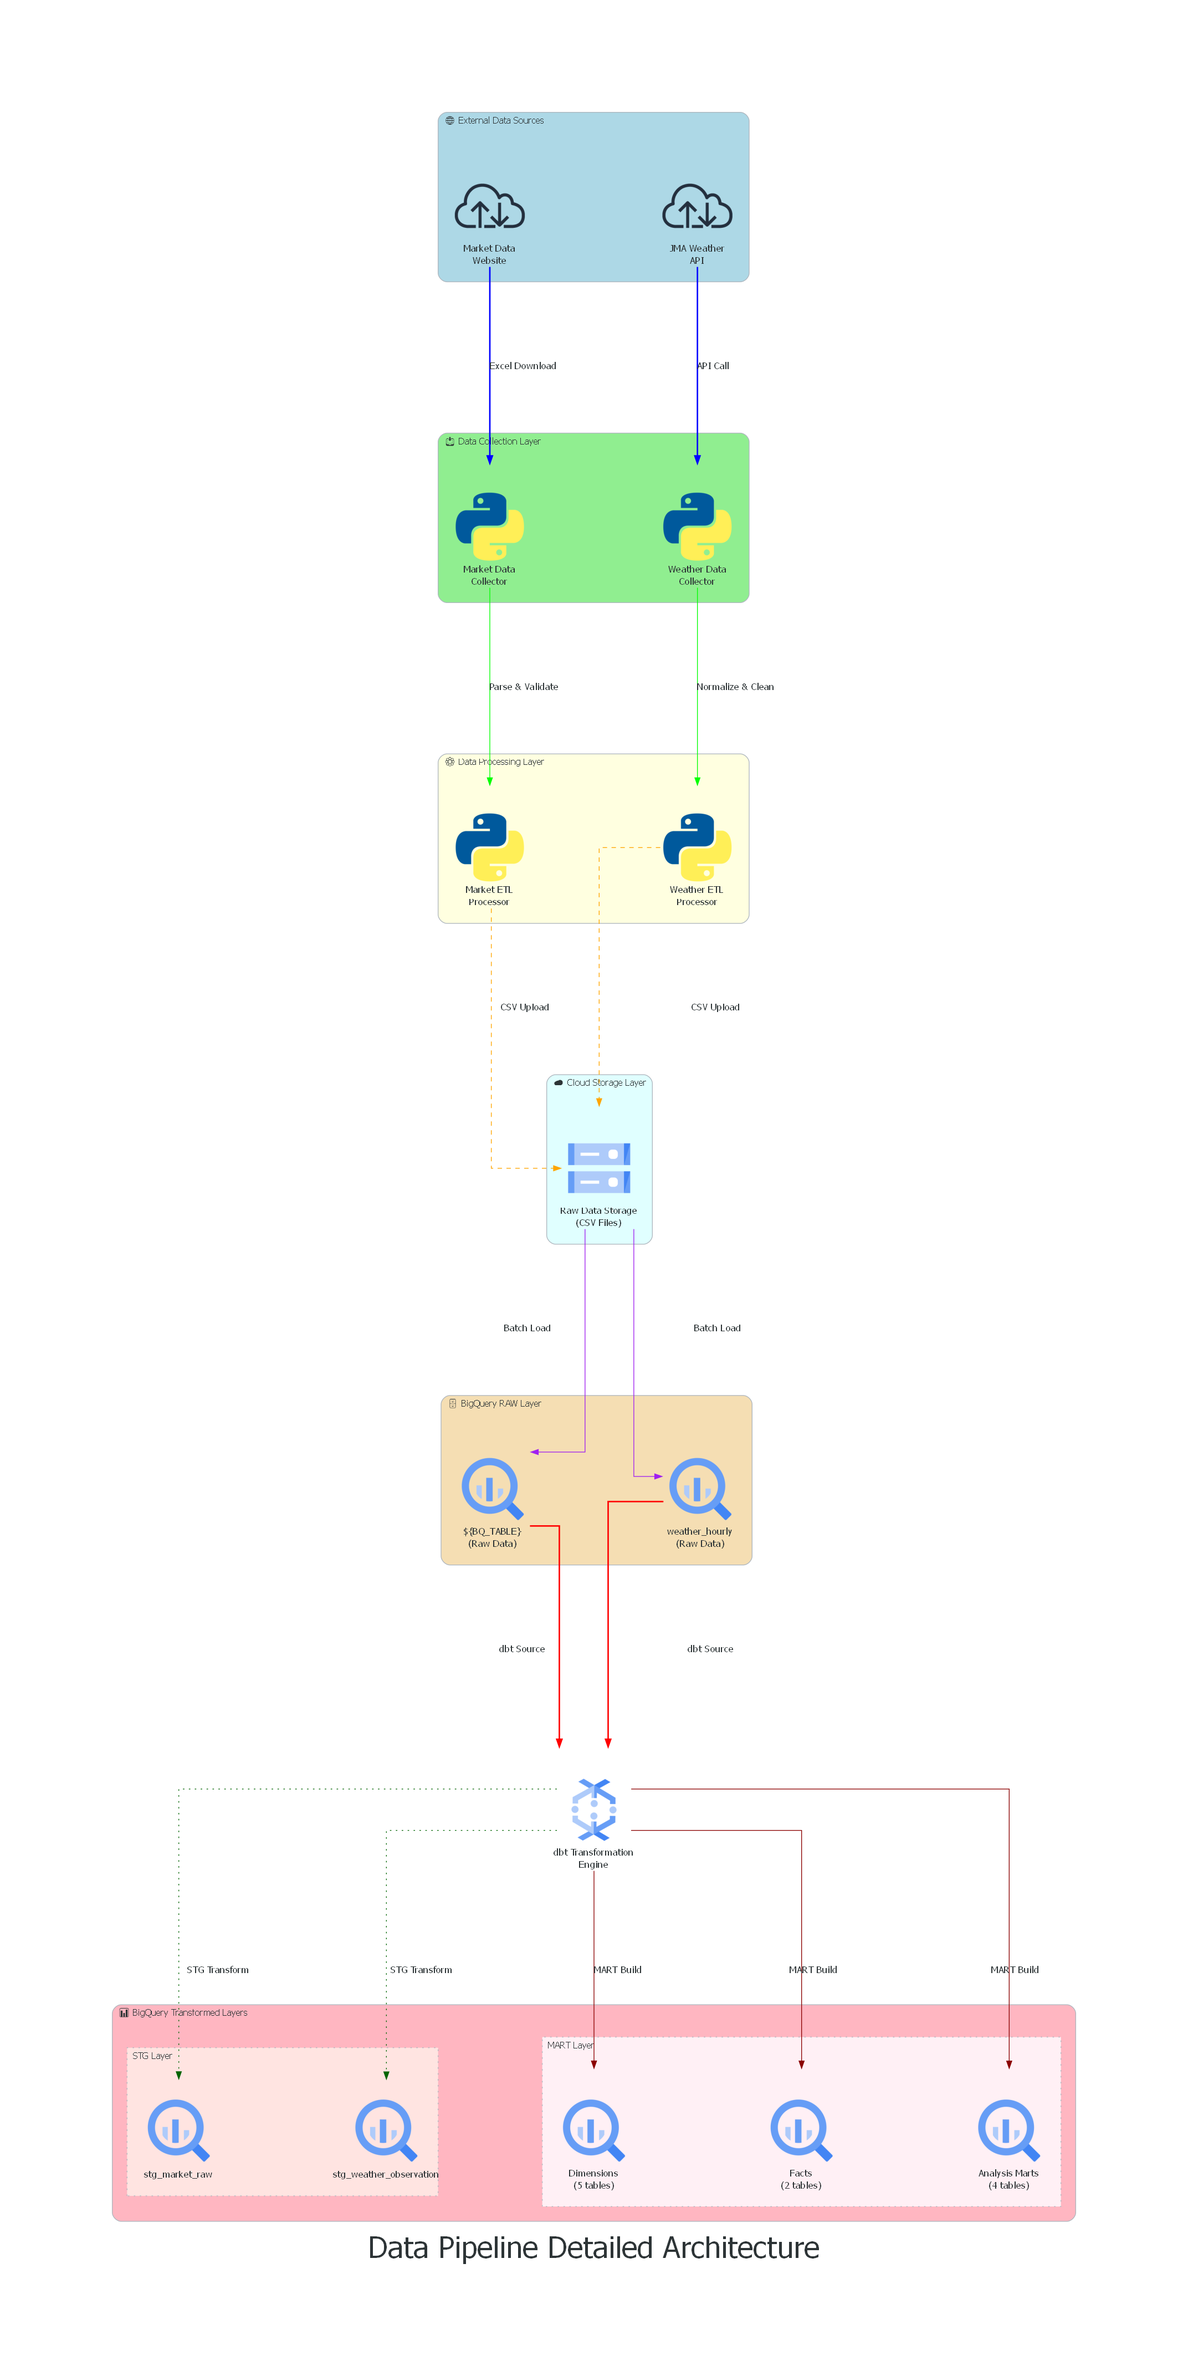
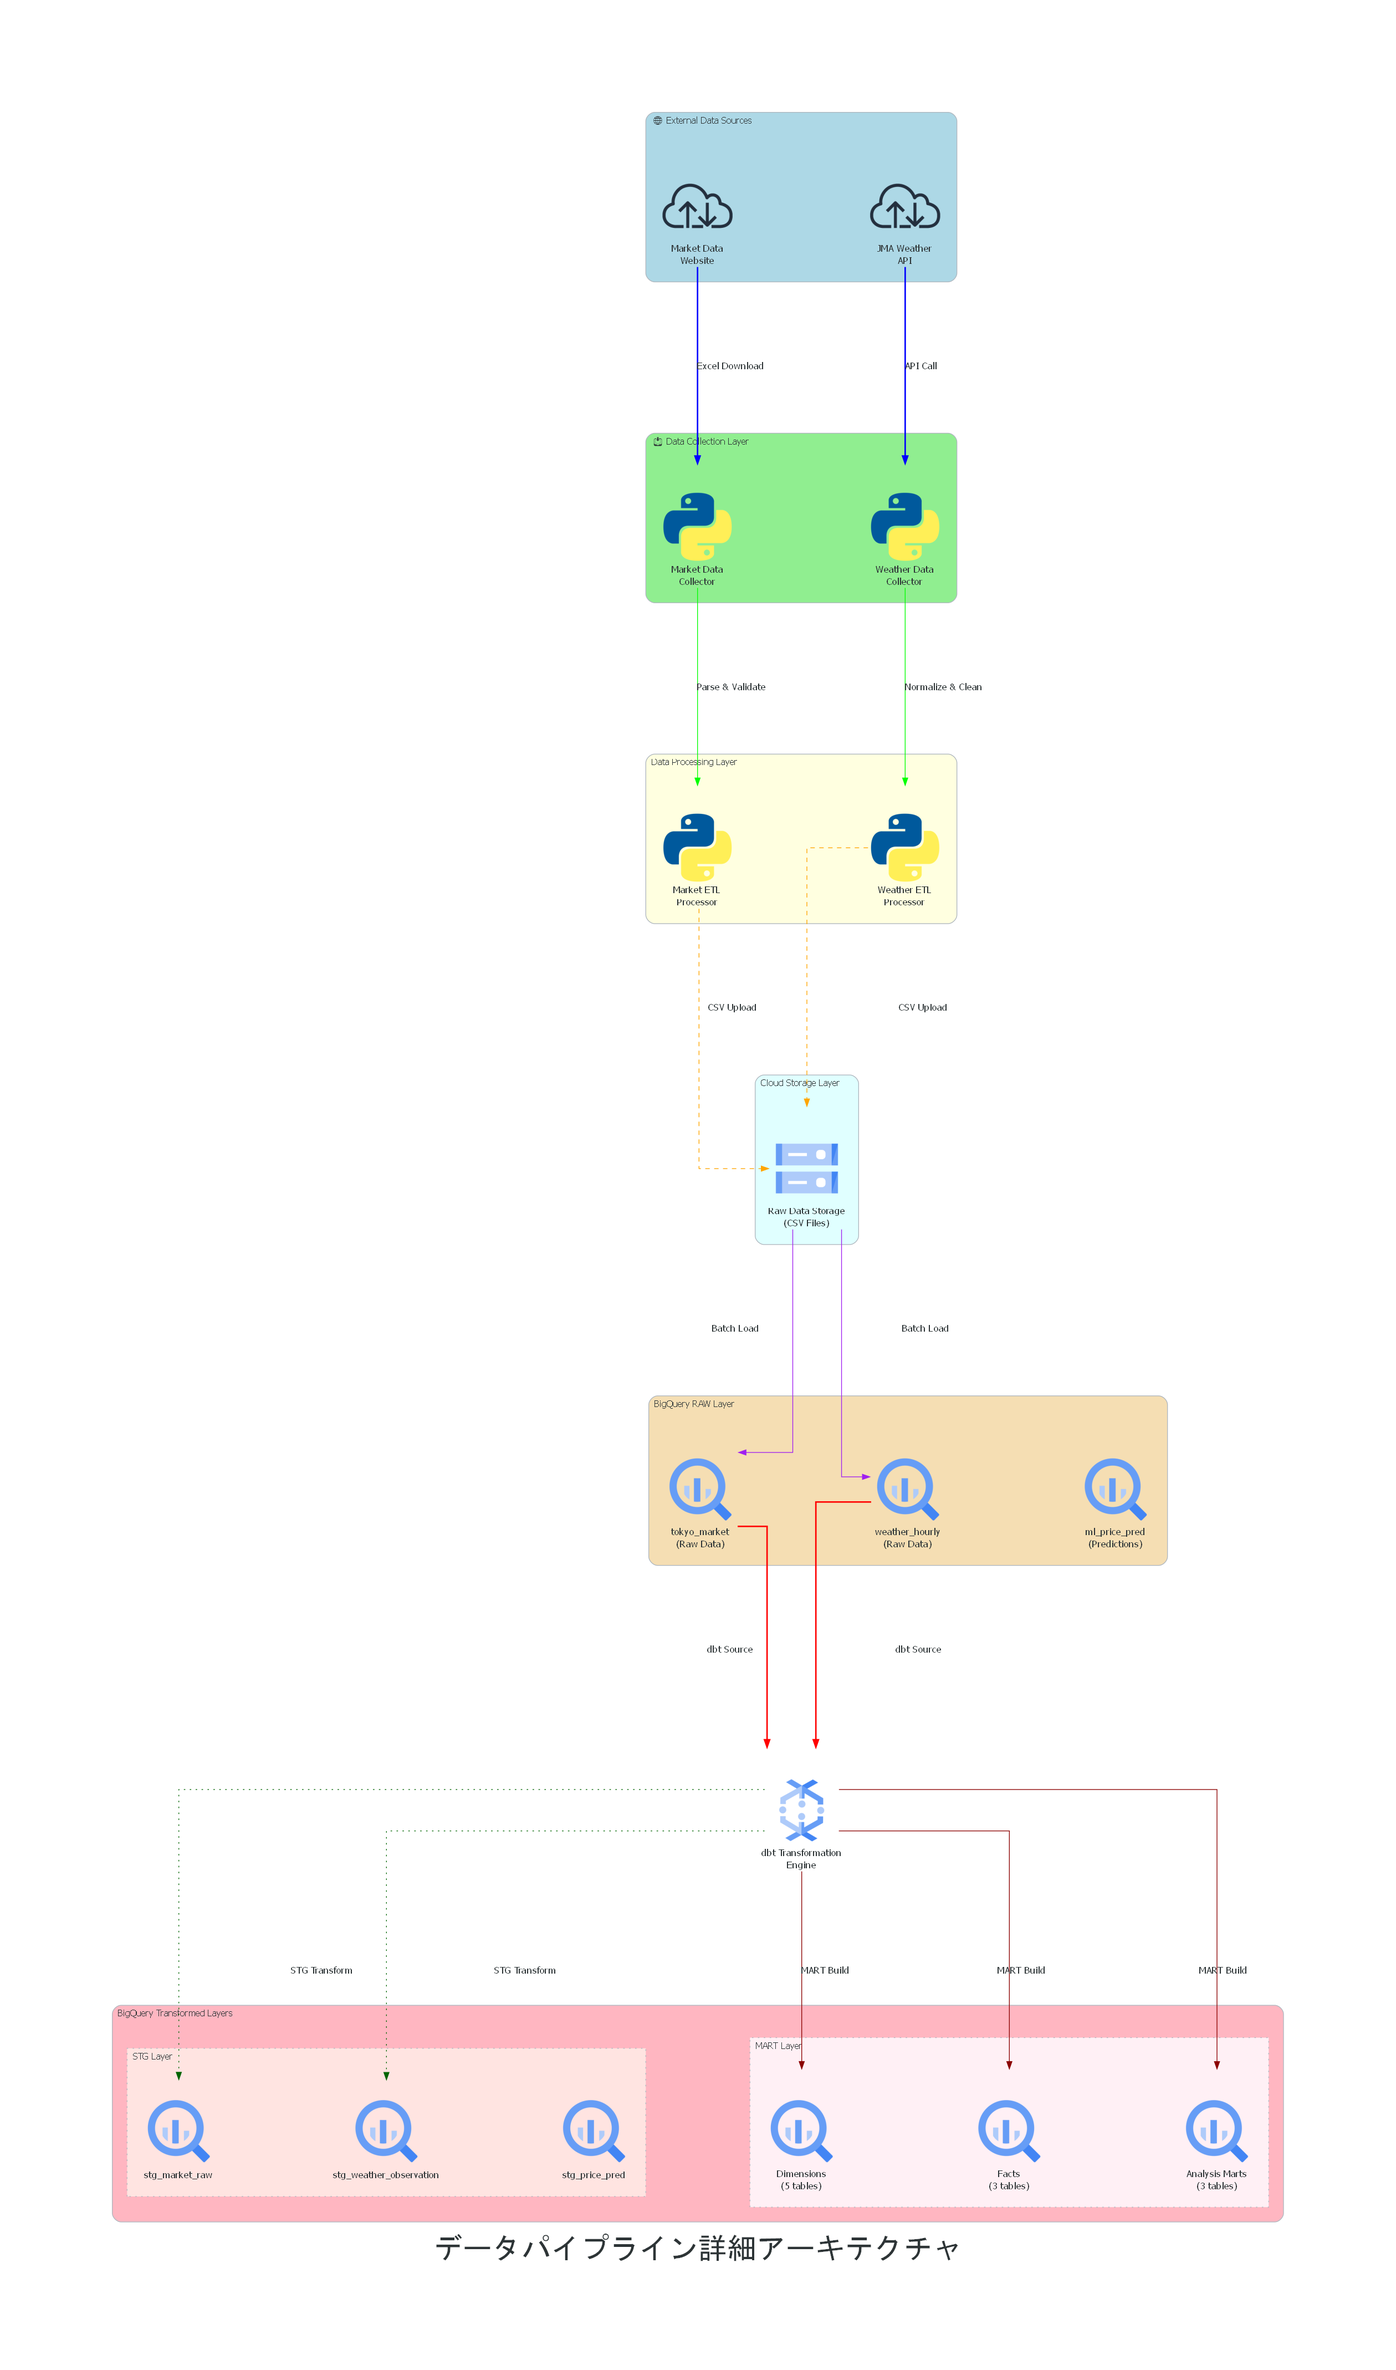
アーキテクチャ図の最新版同期

diff --git a/scripts/gen_diagrams.py b/scripts/gen_diagrams.py
@@ -29,7 +29,6 @@ try:
     
     # プログラミング言語・フレームワーク
     from diagrams.programming.language import Python
-    from diagrams.programming.framework import FastAPI
     
     # 汎用アイコン
     from diagrams.generic.storage import Storage
@@ -177,7 +176,7 @@ class EnhancedDiagramGenerator:
         # 全体アーキテクチャ図を生成
         filename = f"{self.config.output_dir}/overall_architecture_v2"
         
-        with Diagram("Vegetable Market Analysis Platform - Overall Architecture", 
+        with Diagram("野菜市場分析プラットフォーム - 全体アーキテクチャ", 
                      filename=filename, 
                      show=self.config.enable_show, 
                      direction=self.config.default_direction, 
@@ -206,30 +205,33 @@ class EnhancedDiagramGenerator:
                 # BigQuery データウェアハウス
                 with Cluster("BigQuery Data Warehouse"):
                     with Cluster("RAW Layer"):
-                        bq_raw_market = Bigquery("${BQ_TABLE}")
+                        bq_raw_market = Bigquery("tokyo_market")
                         bq_raw_weather = Bigquery("weather_hourly")
+                        bq_raw_predictions = Bigquery("ml_price_pred")
                     
                     with Cluster("STG Layer (dbt)"):
                         bq_stg_market = Bigquery("stg_market_raw")
                         bq_stg_weather = Bigquery("stg_weather_observation")
+                        bq_stg_predictions = Bigquery("stg_price_pred")
                         
                     with Cluster("MART Layer (dbt)"):
                         bq_dims = Bigquery("Dimensions\n(5 tables)")
-                        bq_facts = Bigquery("Facts\n(2 tables)")
-                        bq_marts = Bigquery("Analysis Marts\n(4 tables)")
+                        bq_facts = Bigquery("Facts\n(3 tables)")
+                        bq_marts = Bigquery("Analysis Marts\n(3 tables)")
                 
                 # dbt変換エンジン
                 dbt_runner = Dataflow("dbt Transformations")
             
             # 分析・機械学習層
             with Cluster("Analytics & ML", graph_attr={"style": "rounded", "bgcolor": "lightcoral"}):
-                ml_models = AIPlatform("ML Models\n(Prophet/LSTM/ARIMA)")
-                api_service = AppEngine("Prediction API\n(FastAPI)")
-                model_cache = Redis("Model Cache")
+                ml_models = AIPlatform("ML Models\n(Prophet/LSTM/ARIMA\n/Random Forest/Gradient Boosting)")
+                batch_ml = ComputeEngine("ML Batch Processing\n(ml_batch.py)")
+                model_cache = GCS("Model Storage\n(Trained Models)")
                 
             # 可視化・レポート層
             with Cluster("Visualization & Reporting", graph_attr={"style": "rounded", "bgcolor": "lightpink"}):
-                looker_dashboard = Server("Looker Studio\nDashboards")
+                slack_notifications = Server("Slack通知\n(安価野菜予測)")
+                cost_monitoring = Server("コスト監視\n(cost_monitor.py)")
                 users = Users("Business Users")
                 
             # データフロー（エッジラベル付き）
@@ -247,16 +249,19 @@ class EnhancedDiagramGenerator:
             
             dbt_runner >> Edge(label="Transform", style="solid", color="red") >> bq_stg_market
             dbt_runner >> Edge(label="Transform", style="solid", color="red") >> bq_stg_weather
+            dbt_runner >> Edge(label="Transform", style="solid", color="red") >> bq_stg_predictions
             bq_stg_market >> Edge(label="Aggregate", style="dotted", color="darkgreen") >> bq_dims
             bq_stg_market >> Edge(label="Aggregate", style="dotted", color="darkgreen") >> bq_facts
             bq_stg_weather >> Edge(label="Aggregate", style="dotted", color="darkgreen") >> bq_marts
             
-            bq_marts >> Edge(label="Training Data", style="bold", color="darkred") >> ml_models
-            ml_models >> Edge(label="Model Deploy", style="dashed", color="darkblue") >> api_service
-            api_service >> Edge(label="Cache", style="dotted", color="gray") >> model_cache
+            bq_marts >> Edge(label="Training Data", style="bold", color="darkred") >> batch_ml
+            batch_ml >> Edge(label="ML Processing", style="bold", color="darkred") >> ml_models
+            ml_models >> Edge(label="Predictions", style="dashed", color="darkblue") >> bq_raw_predictions
+            ml_models >> Edge(label="Store Models", style="dotted", color="gray") >> model_cache
             
-            bq_marts >> Edge(label="Analytics", style="solid", color="darkviolet") >> looker_dashboard
-            looker_dashboard >> Edge(label="Reports", style="bold", color="black") >> users
+            bq_marts >> Edge(label="Prediction Data", style="solid", color="darkviolet") >> slack_notifications
+            cost_monitoring >> Edge(label="Monitor", style="dashed", color="red") >> bq_raw_market
+            slack_notifications >> Edge(label="Alerts", style="bold", color="black") >> users
         
         return f"{filename}.{self.config.image_format}"
     
@@ -264,7 +269,7 @@ class EnhancedDiagramGenerator:
         # データパイプライン詳細図を生成
         filename = f"{self.config.output_dir}/data_pipeline_architecture_v2"
         
-        with Diagram("Data Pipeline Detailed Architecture", 
+        with Diagram("データパイプライン詳細アーキテクチャ", 
                      filename=filename, 
                      show=self.config.enable_show, 
                      direction=self.config.default_direction, 
@@ -296,8 +301,9 @@ class EnhancedDiagramGenerator:
                 
             # 第5層: BigQuery RAW層
             with Cluster("BigQuery RAW Layer", graph_attr={"style": "rounded", "bgcolor": "wheat", "margin": "20"}):
-                raw_market_table = Bigquery("${BQ_TABLE}\n(Raw Data)")
+                raw_market_table = Bigquery("tokyo_market\n(Raw Data)")
                 raw_weather_table = Bigquery("weather_hourly\n(Raw Data)")
+                raw_predictions_table = Bigquery("ml_price_pred\n(Predictions)")
             
             # 第6層: dbt変換エンジン
             dbt_engine = Dataflow("dbt Transformation\nEngine")
@@ -307,11 +313,12 @@ class EnhancedDiagramGenerator:
                 with Cluster("STG Layer", graph_attr={"style": "dotted", "bgcolor": "mistyrose"}):
                     stg_market_table = Bigquery("stg_market_raw")
                     stg_weather_table = Bigquery("stg_weather_observation")
+                    stg_predictions_table = Bigquery("stg_price_pred")
                     
                 with Cluster("MART Layer", graph_attr={"style": "dotted", "bgcolor": "lavenderblush"}):
                     mart_dims = Bigquery("Dimensions\n(5 tables)")
-                    mart_facts = Bigquery("Facts\n(2 tables)")
-                    mart_analysis = Bigquery("Analysis Marts\n(4 tables)")
+                    mart_facts = Bigquery("Facts\n(3 tables)")
+                    mart_analysis = Bigquery("Analysis Marts\n(3 tables)")
             
             # データフロー（階層別・色分け）
             market_site >> Edge(label="Excel Download", style="bold", color="blue") >> market_collector
@@ -341,7 +348,7 @@ class EnhancedDiagramGenerator:
         # 機械学習・予測システム詳細図を生成
         filename = f"{self.config.output_dir}/ml_architecture_v2"
         
-        with Diagram("ML Prediction System Architecture", 
+        with Diagram("機械学習バッチ予測システム", 
                      filename=filename, 
                      show=self.config.enable_show, 
                      direction=self.config.default_direction, 
@@ -353,66 +360,73 @@ class EnhancedDiagramGenerator:
                      )):
             
             # データソース層
-            with Cluster("BigQuery Data Marts"):
-                price_weather_mart = Bigquery("mart_price_weather\nIntegrated Analysis")
-                seasonal_mart = Bigquery("mart_seasonal_analysis\nSeasonality Patterns")
+            with Cluster("BigQuery データマート"):
+                price_weather_mart = Bigquery("mart_price_weather\n価格・気象統合データ")
+                seasonal_mart = Bigquery("mart_seasonal_analysis\n季節性分析データ")
             
             # 機械学習パイプライン
-            with Cluster("ML Pipeline"):
+            with Cluster("機械学習パイプライン"):
                 # データ前処理
-                data_processor = ComputeEngine("Feature Engineering\n& Data Preprocessing")
+                data_processor = ComputeEngine("特徴量エンジニアリング\n& データ前処理")
                 
                 # モデル群
-                with Cluster("Time Series Models"):
-                    prophet_model = AIPlatform("Prophet Model\n(Facebook)")
-                    lstm_model = AIPlatform("LSTM Model\n(Deep Learning)")
-                    arima_model = AIPlatform("ARIMA Model\n(Statistics)")
+                with Cluster("時系列予測 & 機械学習モデル"):
+                    prophet_model = AIPlatform("Prophet\n(時系列)")
+                    lstm_model = AIPlatform("LSTM\n(深層学習)")
+                    arima_model = AIPlatform("ARIMA\n(統計的)")
+                    rf_model = AIPlatform("Random Forest\n(アンサンブル)")
+                    gb_model = AIPlatform("Gradient Boosting\n(勾配ブースティング)")
+                    lr_model = AIPlatform("Linear Regression\n(ベースライン)")
                     
                 # モデル評価・選択
-                model_evaluator = AIPlatform("Model Evaluation\n& Selection")
-                hyperparameter_tuner = Automl("Hyperparameter\nTuning")
+                model_evaluator = AIPlatform("モデル評価\n& 選択")
+                hyperparameter_tuner = Automl("ハイパーパラメータ\nチューニング")
             
-            # 予測APIサービス層
-            with Cluster("Prediction API Service"):
-                prediction_api = AppEngine("FastAPI Server\nPrediction Endpoints")
-                model_store = GCS("Model Storage\n(Trained Models)")
-                cache_layer = Redis("Prediction Cache\n(Redis)")
+            # 予測・通知サービス層
+            with Cluster("予測・通知サービス"):
+                batch_processor = ComputeEngine("MLバッチ処理\n(ml_batch.py)")
+                model_store = GCS("モデル保存\n(学習済みモデル)")
+                slack_service = Server("Slack通知\n(slack_notif.py)")
                 
             # 利用者・システム層
-            with Cluster("Users & Systems"):
-                api_clients = Users("API Clients")
-                dashboard_users = Users("Dashboard Users")
-                business_analysts = Users("Business Analysts")
+            with Cluster("利用者・システム"):
+                business_users = Users("ビジネスユーザー")
+                data_analysts = Users("データアナリスト")
                 
-            # CI/CD & Monitoring
-            with Cluster("Operations"):
-                model_monitor = Server("Model Monitoring\n& Alerts")
+            # 運用・監視層
+            with Cluster("運用・監視"):
+                cost_monitor = Server("コスト監視\n(cost_monitor.py)")
+                github_actions = Server("GitHub Actions\n(月次パイプライン)")
                 
             # データフロー（エッジラベル付き）
-            price_weather_mart >> Edge(label="Training Data") >> data_processor
-            seasonal_mart >> Edge(label="Feature Data") >> data_processor
+            price_weather_mart >> Edge(label="学習データ") >> data_processor
+            seasonal_mart >> Edge(label="特徴量データ") >> data_processor
             
-            data_processor >> Edge(label="Processed Features") >> prophet_model
-            data_processor >> Edge(label="Processed Features") >> lstm_model
-            data_processor >> Edge(label="Processed Features") >> arima_model
+            data_processor >> Edge(label="前処理済み特徴量") >> prophet_model
+            data_processor >> Edge(label="前処理済み特徴量") >> lstm_model
+            data_processor >> Edge(label="前処理済み特徴量") >> arima_model
+            data_processor >> Edge(label="前処理済み特徴量") >> rf_model
+            data_processor >> Edge(label="前処理済み特徴量") >> gb_model
+            data_processor >> Edge(label="前処理済み特徴量") >> lr_model
             
-            prophet_model >> Edge(label="Model Outputs") >> model_evaluator
-            lstm_model >> Edge(label="Model Outputs") >> model_evaluator
-            arima_model >> Edge(label="Model Outputs") >> model_evaluator
-            model_evaluator >> Edge(label="Best Model") >> hyperparameter_tuner
+            prophet_model >> Edge(label="予測結果") >> model_evaluator
+            lstm_model >> Edge(label="予測結果") >> model_evaluator
+            arima_model >> Edge(label="予測結果") >> model_evaluator
+            rf_model >> Edge(label="予測結果") >> model_evaluator
+            gb_model >> Edge(label="予測結果") >> model_evaluator
+            lr_model >> Edge(label="予測結果") >> model_evaluator
             
-            hyperparameter_tuner >> Edge(label="Optimized Model") >> model_store
-            model_store >> Edge(label="Load Model") >> prediction_api
+            model_evaluator >> Edge(label="最適モデル") >> hyperparameter_tuner
+            hyperparameter_tuner >> Edge(label="調整済みモデル") >> model_store
             
-            prediction_api >> Edge(label="Cache Results") >> cache_layer
+            github_actions >> Edge(label="月次実行") >> batch_processor
+            batch_processor >> Edge(label="モデル読み込み") >> model_store
+            batch_processor >> Edge(label="予測実行") >> slack_service
             
-            api_clients >> Edge(label="API Requests") >> prediction_api
-            prediction_api >> Edge(label="Predictions") >> api_clients
+            slack_service >> Edge(label="通知") >> business_users
+            data_analysts >> Edge(label="分析クエリ") >> price_weather_mart
             
-            dashboard_users >> Edge(label="Analytics Query") >> price_weather_mart
-            business_analysts >> Edge(label="Reports") >> seasonal_mart
-            
-            prediction_api >> Edge(label="Metrics") >> model_monitor
+            cost_monitor >> Edge(label="使用量監視") >> price_weather_mart
         
         return f"{filename}.{self.config.image_format}"
     
@@ -524,13 +538,13 @@ def main():
                 print(f"  - {result.diagram_name}: {result.error}")
         
         if len(successful_diagrams) == len(results):
-            print(f"\n🎉 全ての図表が正常に生成されました！")
+            print(f"\n[SUCCESS] 全ての図表が正常に生成されました！")
             return 0
         elif successful_diagrams:
             print(f"\n[WARNING] 部分的成功: {len(successful_diagrams)}/{len(results)}図表")
             return 1
         else:
-            print(f"\n💥 全ての図表生成に失敗しました")
+            print(f"\n[ERROR] 全ての図表生成に失敗しました")
             return 1
             
     except Exception as e:
